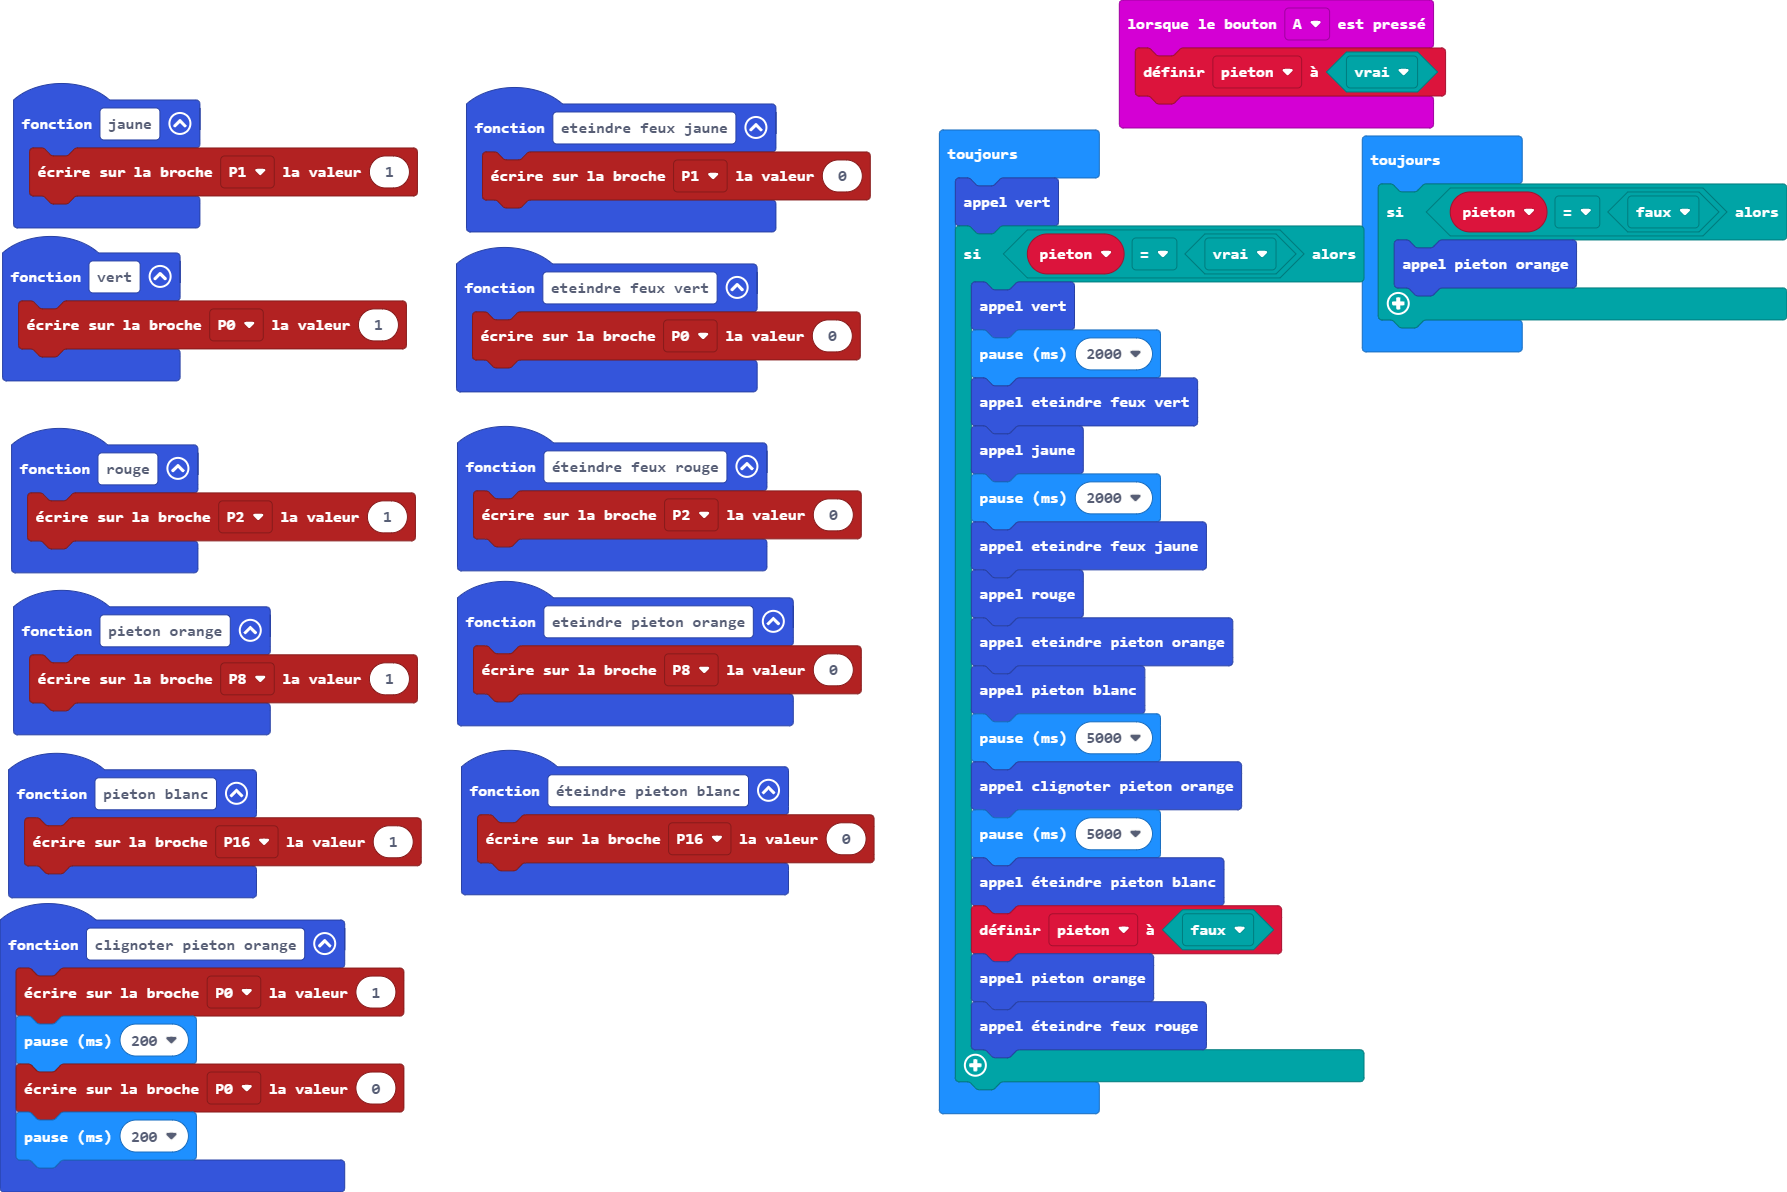
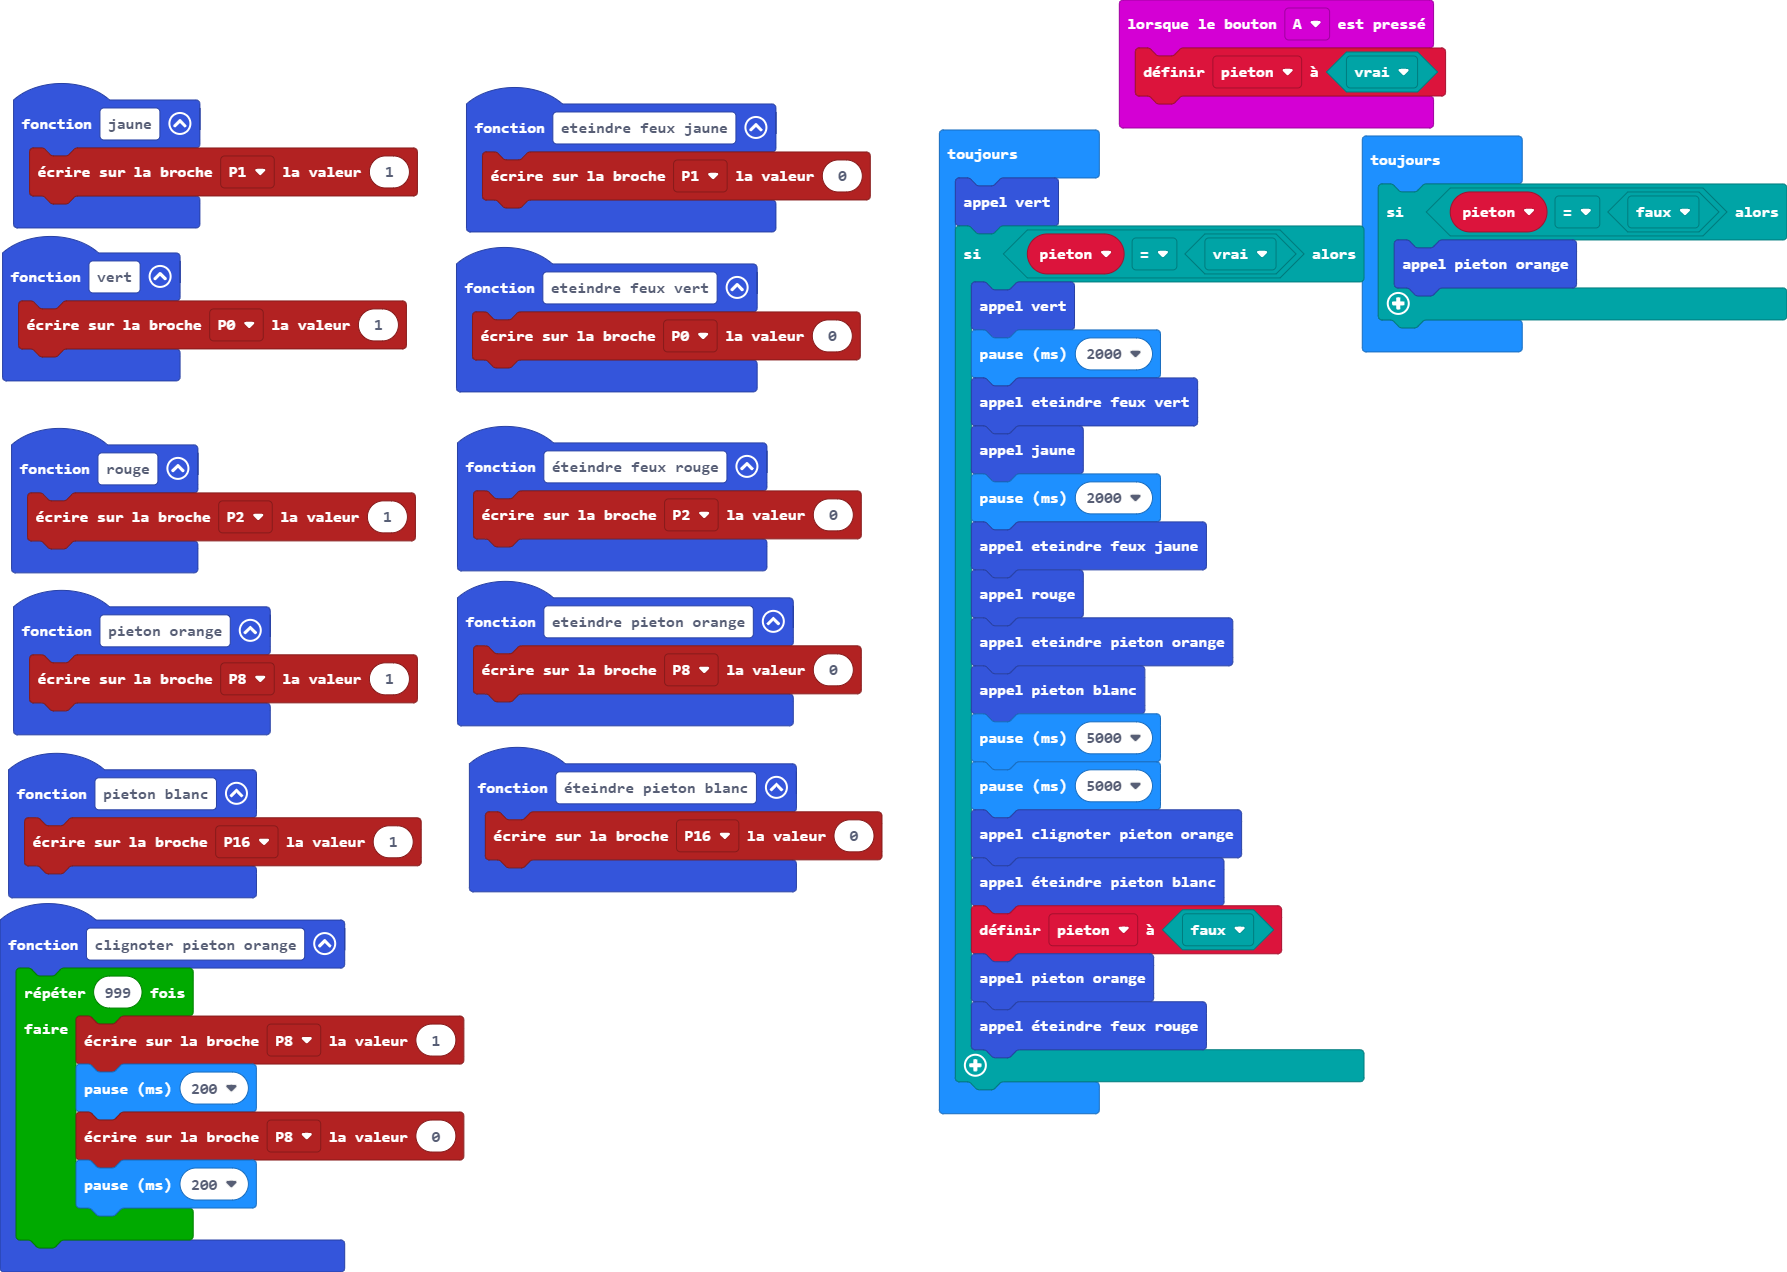
Mise à jour main.blocks, main.ts

diff --git a/main.ts b/main.ts
@@ -27,10 +27,12 @@ function eteindre_feux_vert () {
     pins.digitalWritePin(DigitalPin.P0, 0)
 }
 function clignoter_pieton_orange () {
-    pins.digitalWritePin(DigitalPin.P0, 1)
-    basic.pause(200)
-    pins.digitalWritePin(DigitalPin.P0, 0)
-    basic.pause(200)
+    for (let index = 0; index < 999; index++) {
+        pins.digitalWritePin(DigitalPin.P8, 1)
+        basic.pause(200)
+        pins.digitalWritePin(DigitalPin.P8, 0)
+        basic.pause(200)
+    }
 }
 function rouge () {
     pins.digitalWritePin(DigitalPin.P2, 1)
@@ -51,8 +53,8 @@ basic.forever(function () {
         eteindre_pieton_orange()
         pieton_blanc()
         basic.pause(5000)
-        clignoter_pieton_orange()
         basic.pause(5000)
+        clignoter_pieton_orange()
         éteindre_pieton_blanc()
         pieton = false
         pieton_orange()
